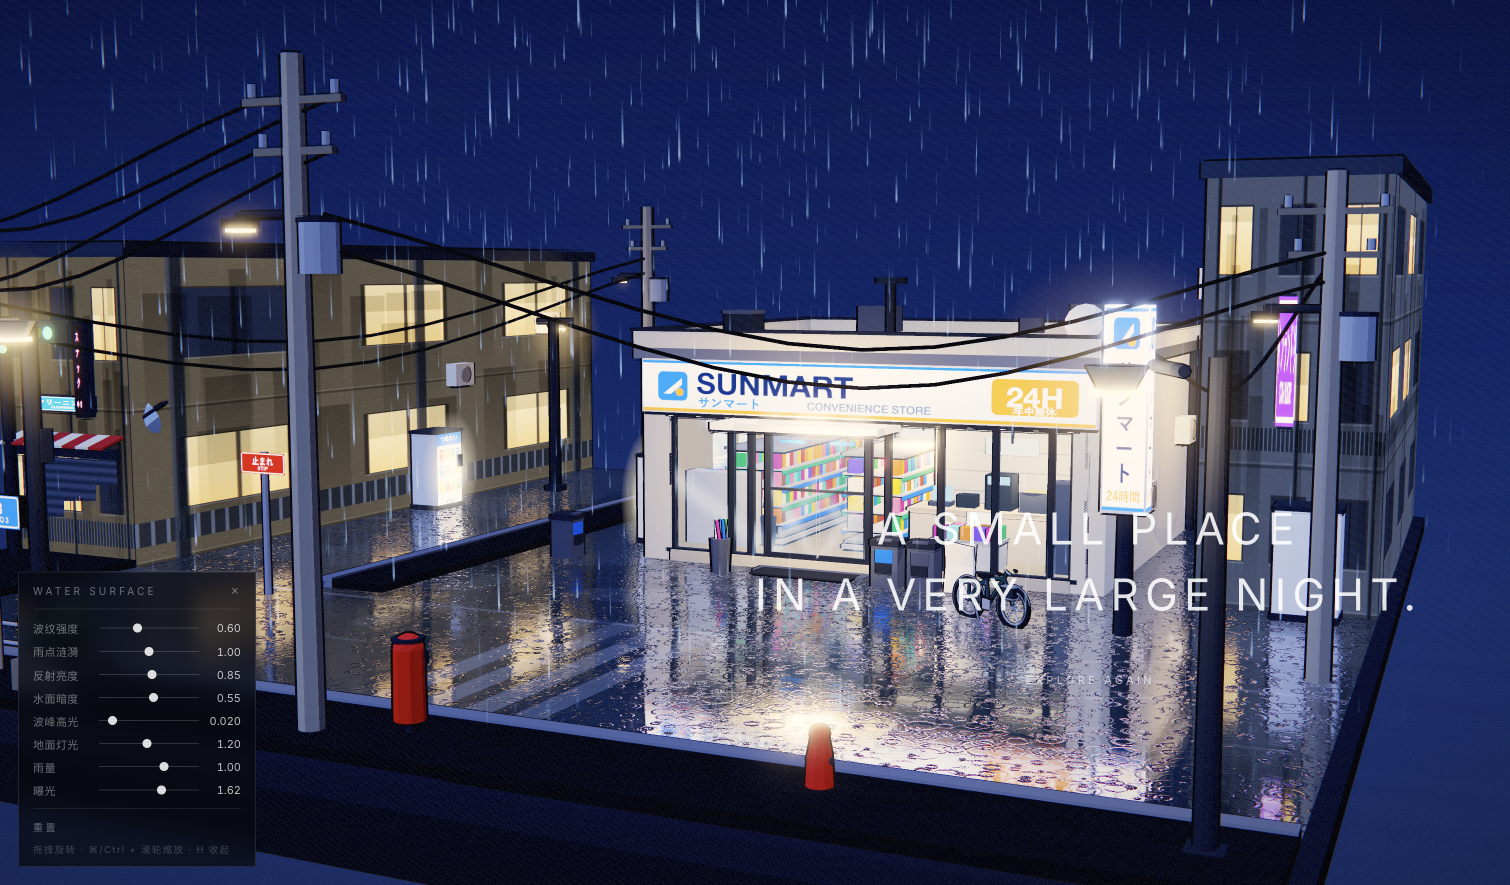
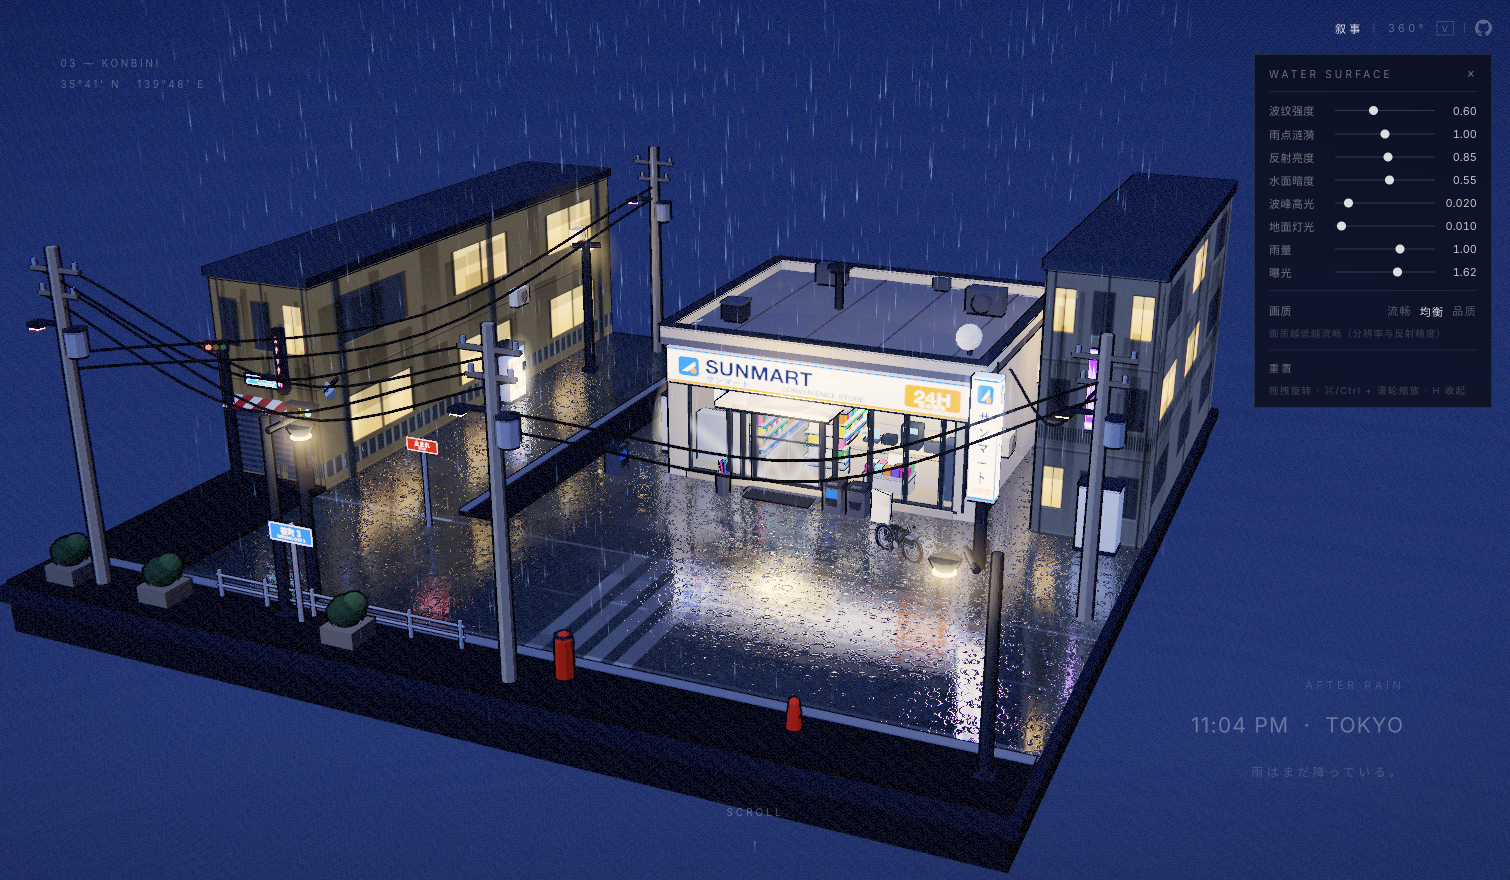
feat: 布局优化

diff --git a/src/styles/global.css b/src/styles/global.css
@@ -271,21 +271,25 @@ html.is-orbit .scroll-hint {
 /* deliberately quiet: film-caption typography, hairline rules, no glass glow */
 .water-ui {
   position: fixed;
-  left: 18px;
-  bottom: 18px;
+  right: 18px;
+  top: 54px;              /* stacked under the view-mode switch */
   z-index: 20;
   pointer-events: auto;
   font-size: 11px;
+  display: flex;
+  flex-direction: column;
+  align-items: flex-end;
+  gap: 10px;
 }
 
 .water-tab {
   display: flex;
   align-items: center;
   gap: 10px;
-  padding: 2px 0 2px 11px;
+  padding: 2px 11px 2px 0;
   background: none;
   border: none;
-  border-left: 1px solid rgba(255, 255, 255, 0.22);
+  border-right: 1px solid rgba(255, 255, 255, 0.22);
   color: rgba(255, 255, 255, 0.42);
   font: inherit;
   font-size: 11px;
@@ -451,6 +455,7 @@ html.is-orbit .scroll-hint {
   .water-ui {
     left: 0;
     right: 0;
+    top: auto;
     bottom: 0;
   }
 
@@ -671,4 +676,42 @@ html.is-orbit .scroll-hint {
 .noscript-note p + p {
   margin-top: 12px;
   color: rgba(255, 255, 255, 0.45);
+}
+
+/* GitHub repo link, sitting at the far right of the view-mode switch */
+.gh-link {
+  display: flex;
+  align-items: center;
+  color: rgba(255, 255, 255, 0.3);
+  transition: color 0.45s ease, transform 0.45s ease;
+}
+
+.gh-link svg {
+  width: 17px;
+  height: 17px;
+  display: block;
+}
+
+.gh-link:hover {
+  color: rgba(255, 255, 255, 0.78);
+  transform: translateY(-1px);
+}
+
+/* GitHub repo link, sitting at the far right of the view-mode switch */
+.gh-link {
+  display: flex;
+  align-items: center;
+  color: rgba(255, 255, 255, 0.3);
+  transition: color 0.45s ease, transform 0.45s ease;
+}
+
+.gh-link svg {
+  width: 17px;
+  height: 17px;
+  display: block;
+}
+
+.gh-link:hover {
+  color: rgba(255, 255, 255, 0.78);
+  transform: translateY(-1px);
 }

diff --git a/src/ui/ViewSwitch.tsx b/src/ui/ViewSwitch.tsx
@@ -55,6 +55,19 @@ export default function ViewSwitch() {
         <span className="vs-key" aria-hidden="true">
           V
         </span>
+        <span className="vs-sep" aria-hidden="true" />
+        <a
+          className="gh-link"
+          href="https://github.com/xiaodye/rainy-night-konbini"
+          target="_blank"
+          rel="noopener noreferrer"
+          aria-label="GitHub 仓库"
+          title="GitHub"
+        >
+          <svg viewBox="0 0 16 16" width="17" height="17" fill="currentColor" aria-hidden="true">
+            <path d="M8 0C3.58 0 0 3.58 0 8c0 3.54 2.29 6.53 5.47 7.59.4.07.55-.17.55-.38 0-.19-.01-.82-.01-1.49-2.01.37-2.53-.49-2.69-.94-.09-.23-.48-.94-.82-1.13-.28-.15-.68-.52-.01-.53.63-.01 1.08.58 1.23.82.72 1.21 1.87.87 2.33.66.07-.52.28-.87.51-1.07-1.78-.2-3.64-.89-3.64-3.95 0-.87.31-1.59.82-2.15-.08-.2-.36-1.02.08-2.12 0 0 .67-.21 2.2.82.64-.18 1.32-.27 2-.27s1.36.09 2 .27c1.53-1.04 2.2-.82 2.2-.82.44 1.1.16 1.92.08 2.12.51.56.82 1.27.82 2.15 0 3.07-1.87 3.75-3.65 3.95.29.25.54.73.54 1.48 0 1.07-.01 1.93-.01 2.2 0 .21.15.46.55.38A8.012 8.012 0 0 0 16 8c0-4.42-3.58-8-8-8Z" />
+          </svg>
+        </a>
       </div>
 
       {viewMode === 'orbit' && (
